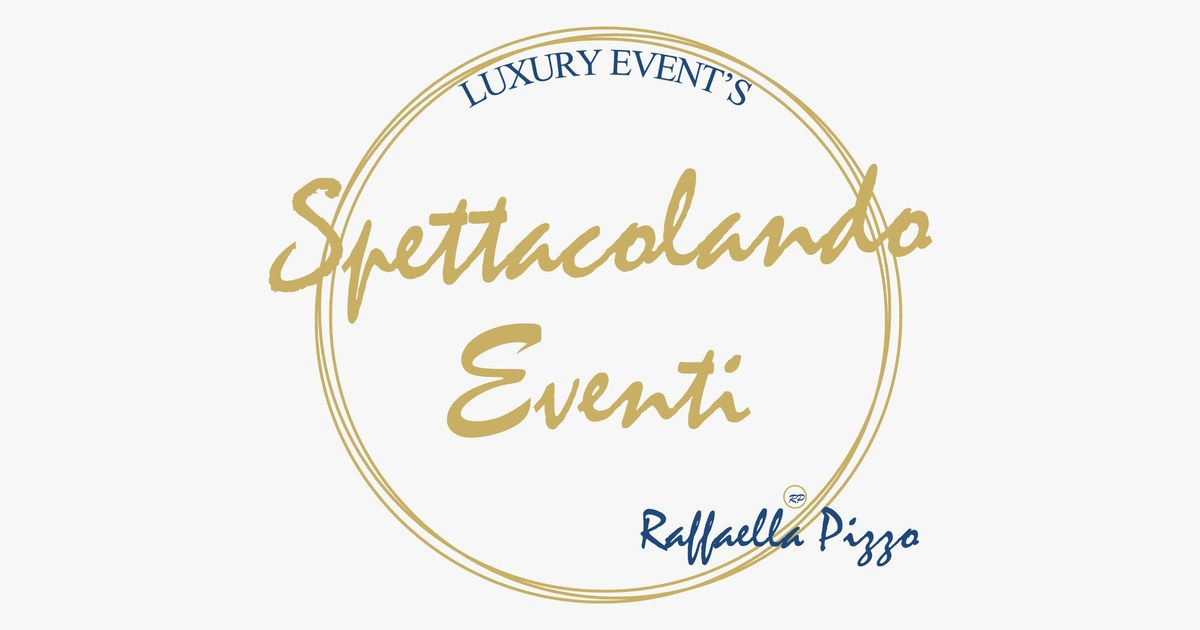
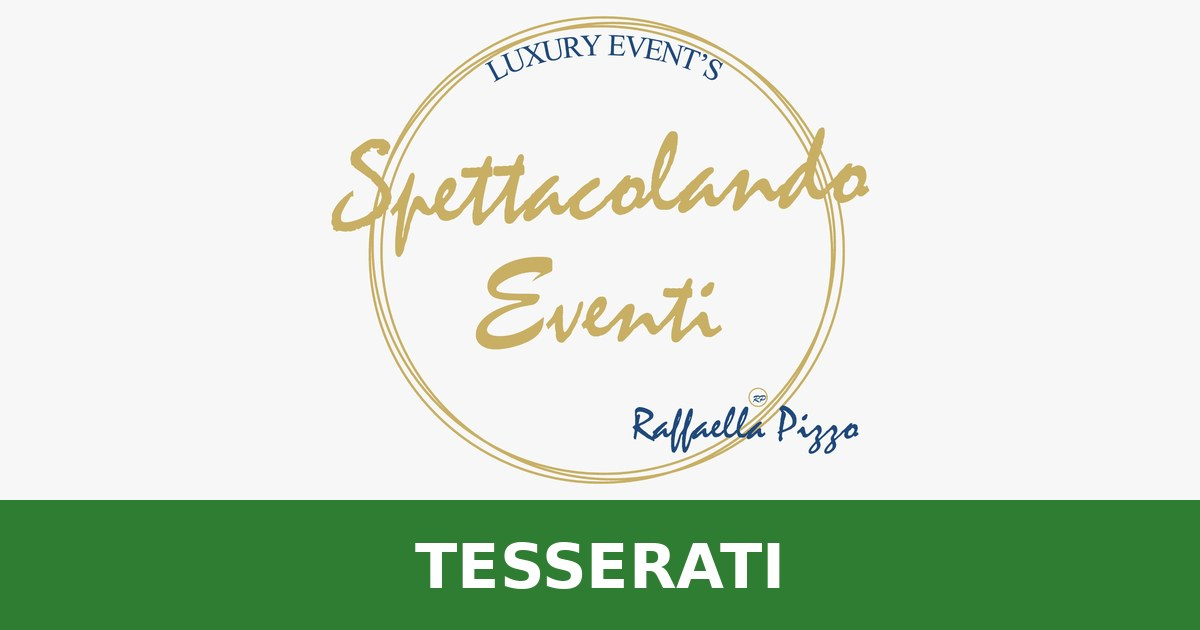
Tesserati: anteprima con fascia verde
Claude-Session: https://claude.ai/code/session_01W9cz4NMYBFh99JhS3XfnzK

diff --git a/tesseramento/index.html b/tesseramento/index.html
@@ -7,7 +7,7 @@
 <meta name="description" content="Tocca qui per compilare la domanda di tesseramento.">
 <meta property="og:type" content="website">
 <meta property="og:site_name" content="Spettacolando Eventi">
-<meta property="og:title" content="👉 Richiedi il tesseramento">
+<meta property="og:title" content="🟢 Tesserati · Richiedi il tesseramento">
 <meta property="og:description" content="ASD Spettacolando Eventi APS · Tocca qui per compilare la domanda">
 <meta property="og:url" content="https://spettacolando-digitale.github.io/spettacolando-siti/tesseramento/">
 <meta property="og:image" content="https://spettacolando-digitale.github.io/spettacolando-siti/tesseramento/anteprima.jpg">
@@ -21,7 +21,7 @@
 <style>
   body{margin:0;min-height:100vh;display:flex;align-items:center;justify-content:center;background:#f7f7f7;font-family:Arial,Helvetica,sans-serif;text-align:center}
   img{width:220px;max-width:70vw}
-  a{display:inline-block;margin-top:24px;padding:16px 32px;background:#1f3f7a;color:#fff;text-decoration:none;font-weight:bold;font-size:18px;border-radius:10px}
+  a{display:inline-block;margin-top:24px;padding:16px 32px;background:#2e7d32;color:#fff;text-decoration:none;font-weight:bold;font-size:18px;border-radius:10px}
 </style>
 </head>
 <body>
